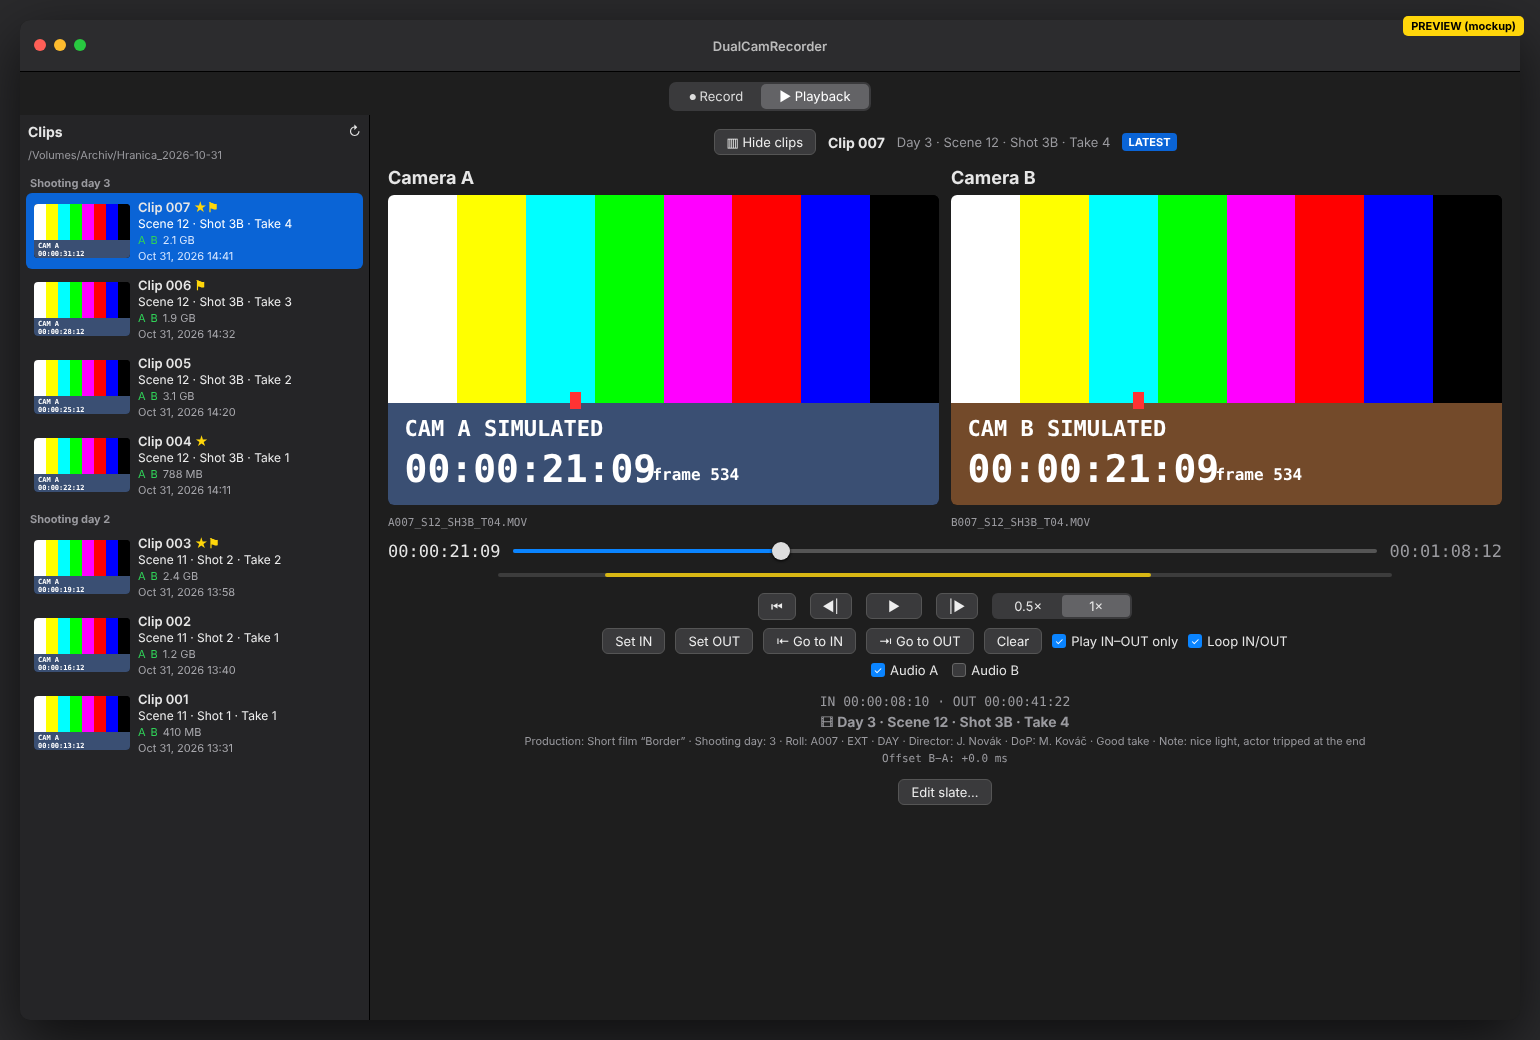
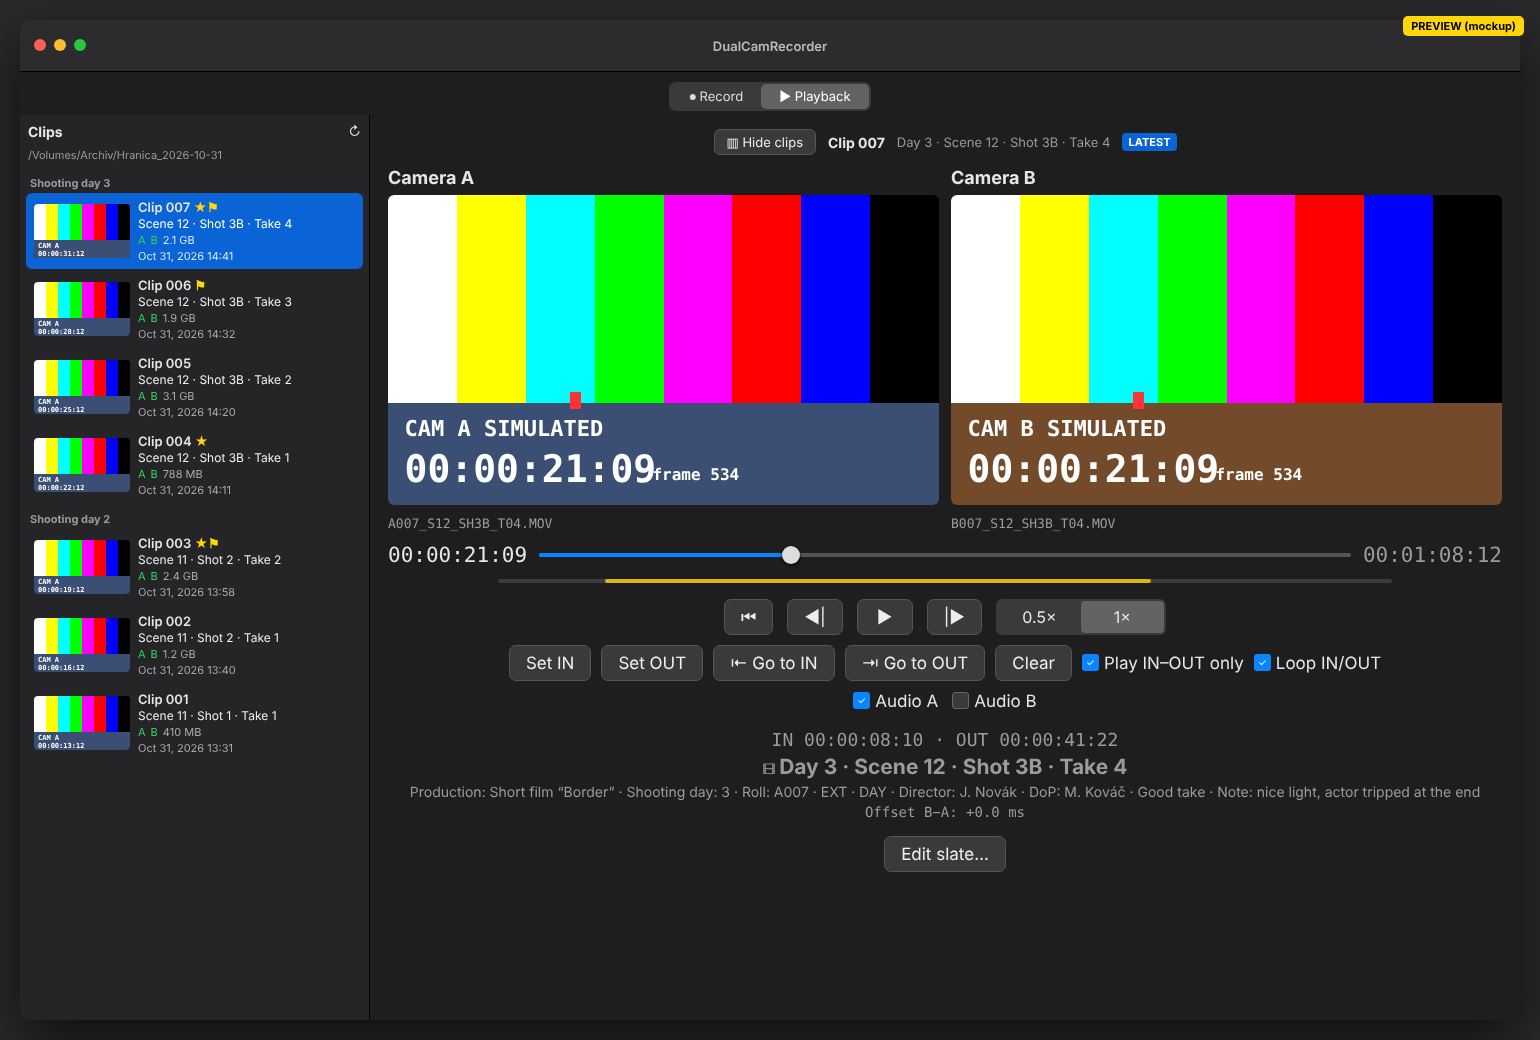
Enlarge buttons and texts under the screens
Playback: large control size and title3 font for all buttons, bigger
timecodes, IN/OUT times, slate summary/description and offset text,
wider speed picker and play button. Record: bigger IN/OUT buttons and
times, take label, disk line, format line and frame counters; slate
fields use the large control size with larger labels.

Claude-Session: https://claude.ai/code/session_01SjxyfTkJQH7RKsrkA8EJQA

Changed region(s): [[0.2494, 0.4923, 0.9662, 0.8615]]

diff --git a/DualCamRecorder/Views/PlaybackView.swift b/DualCamRecorder/Views/PlaybackView.swift
@@ -215,7 +215,7 @@ struct PlaybackView: View {
             .aspectRatio(16.0 / 9.0, contentMode: .fit)
             .clipShape(RoundedRectangle(cornerRadius: 6))
             Text(file?.lastPathComponent ?? " ")
-                .font(.caption.monospaced()).foregroundStyle(.secondary)
+                .font(.callout.monospaced()).foregroundStyle(.secondary)
                 .lineLimit(1).truncationMode(.middle)
                 .textSelection(.enabled)
         }
@@ -237,8 +237,8 @@ struct PlaybackView: View {
                 }
             }
         }
-        .frame(height: 4)
-        .padding(.horizontal, 110)
+        .frame(height: 5)
+        .padding(.horizontal, 130)
     }
 
     // MARK: - Controls: all buttons stacked, info below
@@ -247,7 +247,7 @@ struct PlaybackView: View {
         VStack(spacing: 8) {
             HStack {
                 Text(player.timecode(isScrubbing ? scrubValue : player.currentTime))
-                    .font(.system(.title3, design: .monospaced))
+                    .font(.system(.title2, design: .monospaced))
                 Slider(value: $scrubValue, in: 0...max(player.duration, 0.001), onEditingChanged: { editing in
                     isScrubbing = editing
                     player.isScrubbing = editing
@@ -257,17 +257,19 @@ struct PlaybackView: View {
                     if isScrubbing { player.seek(seconds: v) }
                 }
                 Text(player.timecode(player.duration))
-                    .font(.system(.title3, design: .monospaced))
+                    .font(.system(.title2, design: .monospaced))
                     .foregroundStyle(.secondary)
             }
             rangeBar
 
             // Buttons, one group under another; audio last.
-            VStack(spacing: 8) {
+            VStack(spacing: 10) {
                 transportButtons
                 markButtons
                 audioButtons
             }
+            .controlSize(.large)
+            .font(.title3)
             .padding(.top, 4)
             .disabled(player.take == nil)
 
@@ -277,6 +279,8 @@ struct PlaybackView: View {
 
             // Edit slate at the very bottom.
             Button("Edit slate…") { editingSlate = true }
+                .controlSize(.large)
+                .font(.title3)
                 .disabled(player.take == nil)
                 .padding(.top, 6)
         }
@@ -296,7 +300,7 @@ struct PlaybackView: View {
                 .keyboardShortcut(.leftArrow, modifiers: [])
                 .help("One frame back (←)")
             Button { player.togglePlay() } label: {
-                Image(systemName: player.isPlaying ? "pause.fill" : "play.fill").frame(width: 40)
+                Image(systemName: player.isPlaying ? "pause.fill" : "play.fill").frame(width: 56)
             }
             .keyboardShortcut(.space, modifiers: [])
             .help("Play / pause (space)")
@@ -309,7 +313,7 @@ struct PlaybackView: View {
                 Text("1×").tag(Float(1.0))
             }
             .pickerStyle(.segmented)
-            .frame(width: 140)
+            .frame(width: 170)
         }
     }
 
@@ -345,25 +349,25 @@ struct PlaybackView: View {
         VStack(spacing: 4) {
             HStack(spacing: 10) {
                 Text("IN \(player.marks.inPoint.map { player.timecode($0) } ?? "—")  ·  OUT \(player.marks.outPoint.map { player.timecode($0) } ?? "—")")
-                    .font(.system(.callout, design: .monospaced))
+                    .font(.system(.title3, design: .monospaced))
                 if let msg = player.marksMessage {
-                    Text(msg).font(.caption).foregroundStyle(.red)
+                    Text(msg).font(.callout).foregroundStyle(.red)
                 }
             }
             if let slate = player.slate {
                 HStack(spacing: 6) {
                     Image(systemName: "film.stack")
-                    Text(slate.shortLabel).font(.headline)
+                    Text(slate.shortLabel).font(.title2.weight(.semibold))
                 }
                 Text(slate.longDescription.replacingOccurrences(of: "\n", with: "  ·  "))
-                    .font(.caption).lineLimit(2)
+                    .font(.body).lineLimit(2)
                     .multilineTextAlignment(.center)
             } else if player.take != nil {
                 Text("This clip has no slate data.")
             }
             if let offset = player.abOffsetMs {
                 Text(String(format: "Offset B−A: %+.1f ms", offset))
-                    .font(.caption.monospacedDigit())
+                    .font(.callout.monospacedDigit())
                     .foregroundStyle(abs(offset) > 1000 * player.frameDuration.seconds ? Color.red : Color.secondary)
             }
         }

diff --git a/DualCamRecorder/Views/RecordView.swift b/DualCamRecorder/Views/RecordView.swift
@@ -79,7 +79,7 @@ struct RecordView: View {
                     Text(DisplayFormat.duration(controller.elapsed))
                         .font(.system(size: 30, weight: .semibold, design: .monospaced))
                         .foregroundStyle(controller.isRecording ? .red : .primary)
-                    Text(takeLabel).font(.callout).foregroundStyle(.secondary)
+                    Text(takeLabel).font(.body).foregroundStyle(.secondary)
                 }
 
                 markControls
@@ -100,10 +100,9 @@ struct RecordView: View {
                     .lineLimit(1).truncationMode(.middle)
                     .frame(maxWidth: 300)
                 Button("Change…") { controller.chooseRecordFolder() }
-                    .controlSize(.small)
                     .disabled(controller.isRecording)
             }
-            .font(.caption)
+            .font(.callout)
         }
         .frame(maxWidth: .infinity)
     }
@@ -117,12 +116,12 @@ struct RecordView: View {
         return VStack(alignment: .center, spacing: 6) {
             HStack(spacing: 8) {
                 Button { controller.markIn() } label: {
-                    Text("IN").font(.headline).frame(width: 44, height: 28)
+                    Text("IN").font(.title2.weight(.semibold)).frame(width: 64, height: 36)
                 }
                 .keyboardShortcut("i", modifiers: [.command])
                 .help("Set IN at the current take time (⌘I)")
                 Button { controller.markOut() } label: {
-                    Text("OUT").font(.headline).frame(width: 44, height: 28)
+                    Text("OUT").font(.title2.weight(.semibold)).frame(width: 64, height: 36)
                 }
                 .keyboardShortcut("o", modifiers: [.command])
                 .help("Set OUT at the current take time (⌘O)")
@@ -133,7 +132,7 @@ struct RecordView: View {
             }
             .disabled(!recording)
             Text("IN \(DisplayFormat.mark(controller.marks.inPoint))  ·  OUT \(DisplayFormat.mark(controller.marks.outPoint))")
-                .font(.system(.callout, design: .monospaced))
+                .font(.system(.title3, design: .monospaced))
                 .foregroundStyle(.secondary)
         }
     }
@@ -203,7 +202,7 @@ struct CameraPanel: View {
             CameraScreen(channel: channel)
 
             Text(channel.format?.displayString ?? "Format: —")
-                .font(.system(.callout, design: .monospaced))
+                .font(.system(.body, design: .monospaced))
             AudioMeter(db: channel.audioLevelDB)
             HStack(spacing: 16) {
                 stat("Captured", channel.stats.framesCaptured)
@@ -211,9 +210,9 @@ struct CameraPanel: View {
                 stat("Dropped (input)", channel.stats.inputDropped, alert: channel.stats.inputDropped > 0)
                 stat("Dropped (write)", channel.stats.writerDropped, alert: channel.stats.writerDropped > 0)
             }
-            .font(.caption)
+            .font(.callout)
             if let error = channel.lastError {
-                Text(error).font(.caption).foregroundStyle(.red)
+                Text(error).font(.callout).foregroundStyle(.red)
             }
         }
         .frame(maxWidth: .infinity)
@@ -222,7 +221,7 @@ struct CameraPanel: View {
     private func stat(_ title: String, _ value: Int, alert: Bool = false) -> some View {
         VStack(alignment: .leading) {
             Text(title).foregroundStyle(.secondary)
-            Text("\(value)").font(.system(.body, design: .monospaced))
+            Text("\(value)").font(.system(.title3, design: .monospaced))
                 .foregroundStyle(alert ? .red : .primary)
         }
     }

diff --git a/DualCamRecorder/Views/SlateView.swift b/DualCamRecorder/Views/SlateView.swift
@@ -88,7 +88,7 @@ struct SlateFields: View {
                                              set: { v in if let setShot { setShot(v) } else { slate.shot = v } }))
                     .frame(maxWidth: 110)
                 VStack(alignment: .leading, spacing: 2) {
-                    Text("Take").font(.caption).foregroundStyle(.secondary)
+                    Text("Take").font(.callout).foregroundStyle(.secondary)
                     HStack(spacing: 4) {
                         TextField("", value: $slate.take, format: .number)
                             .textFieldStyle(.roundedBorder)
@@ -125,7 +125,7 @@ struct SlateFields: View {
 
     private func field(_ title: String, text: Binding<String>) -> some View {
         VStack(alignment: .leading, spacing: 2) {
-            Text(title).font(.caption).foregroundStyle(.secondary)
+            Text(title).font(.callout).foregroundStyle(.secondary)
             TextField(title, text: text).textFieldStyle(.roundedBorder)
         }
     }
@@ -149,16 +149,18 @@ struct SlatePanel: View {
             SlateBoard(slate: displayedSlate, recording: controller.isRecording)
             VStack(alignment: .leading, spacing: 6) {
                 HStack {
-                    Text("Slate").font(.headline)
+                    Text("Slate").font(.title3.weight(.semibold))
                     Text(controller.isRecording
                          ? "Scene / shot / take are locked while recording – note and “good take” can still be changed."
                          : "Take goes up by 1 after each recording; changing scene or shot resets it to 1.")
-                        .font(.caption).foregroundStyle(.secondary)
+                        .font(.callout).foregroundStyle(.secondary)
                 }
                 SlateFields(slate: $settings.slate,
                             locked: controller.slateLocked,
                             setScene: { controller.setSlateScene($0) },
                             setShot: { controller.setSlateShot($0) })
+                    .controlSize(.large)
+                    .font(.body)
             }
         }
     }
